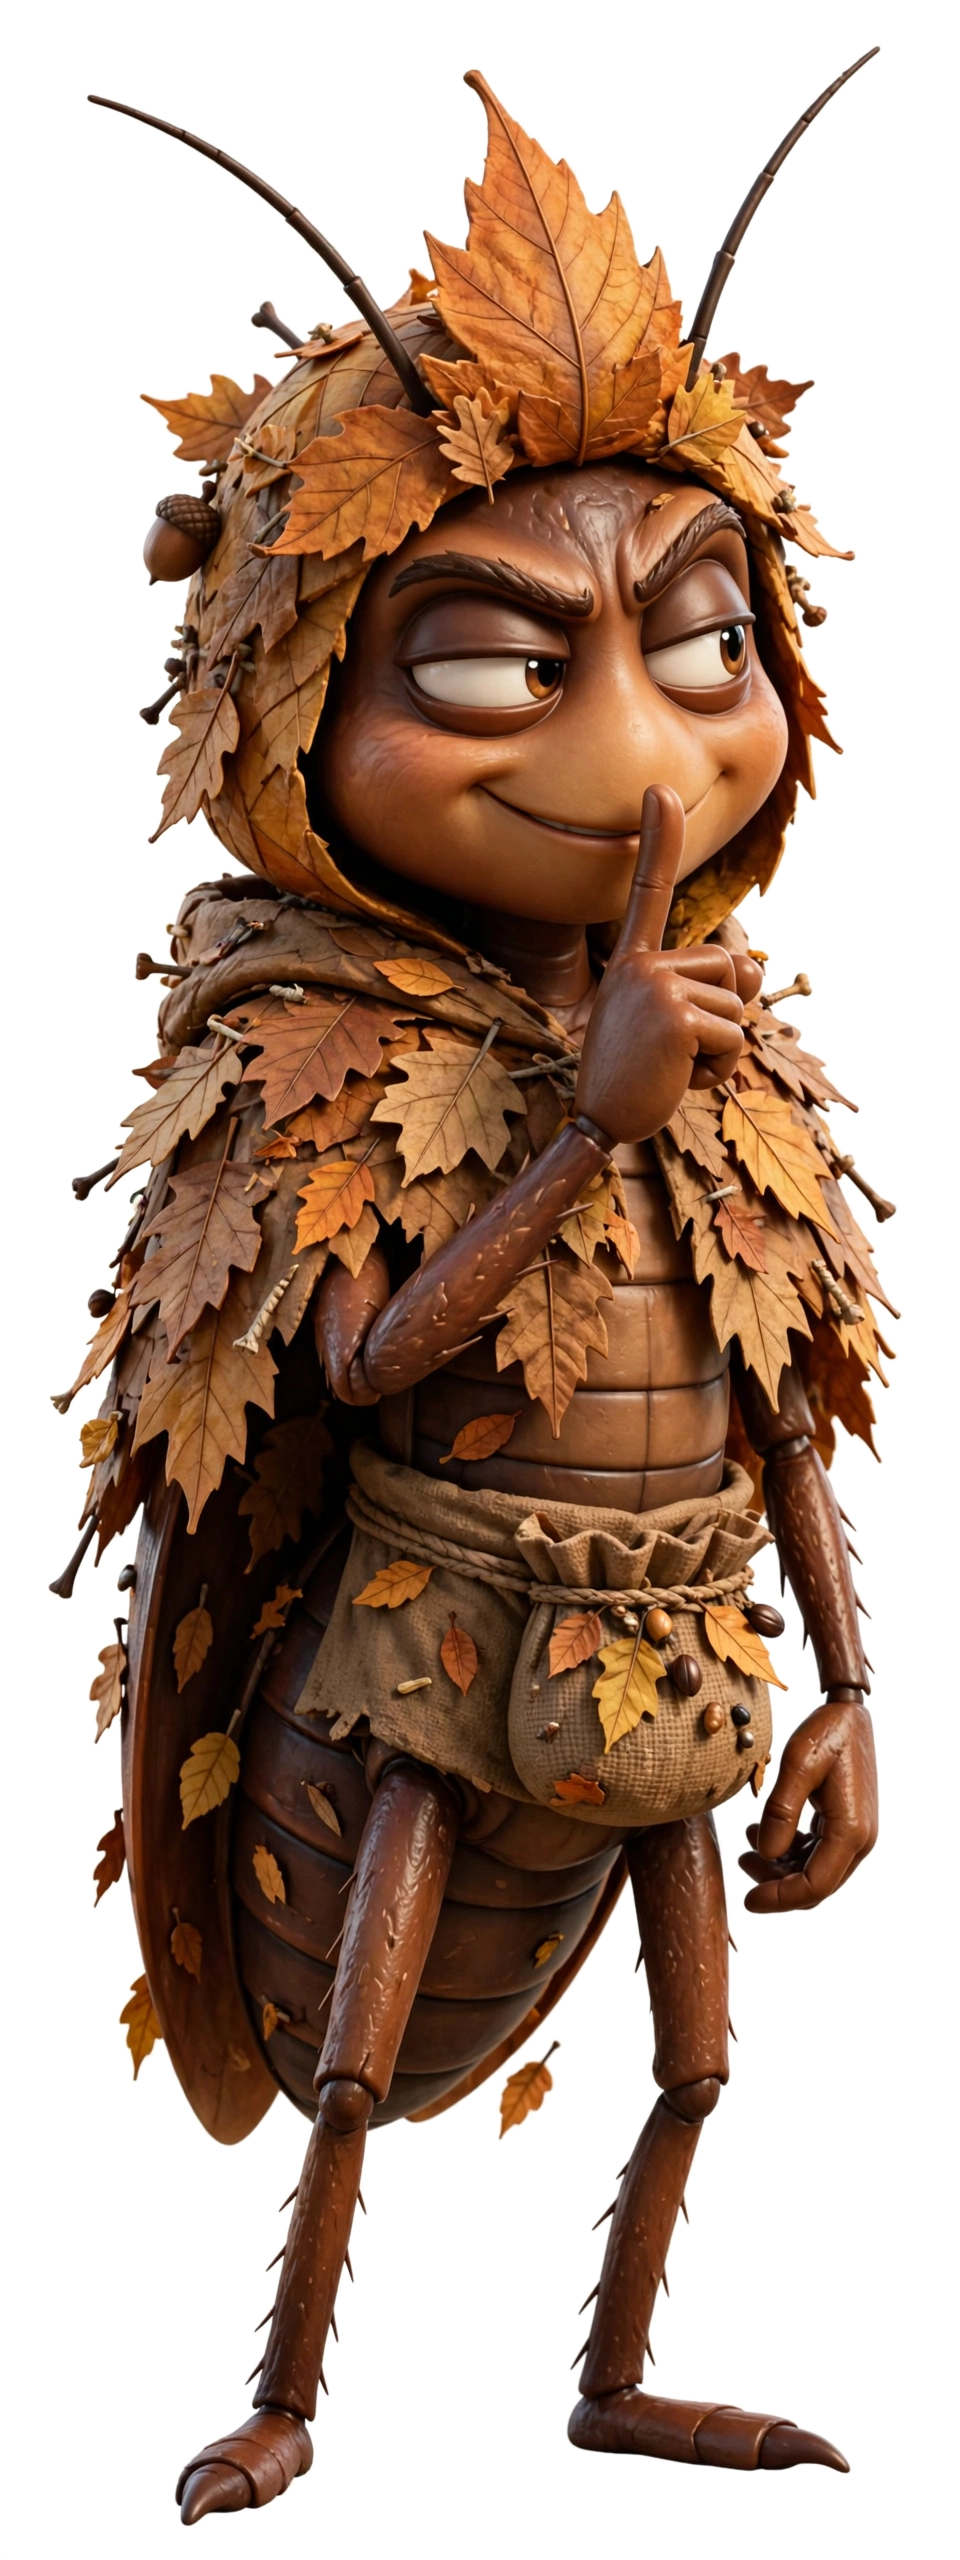
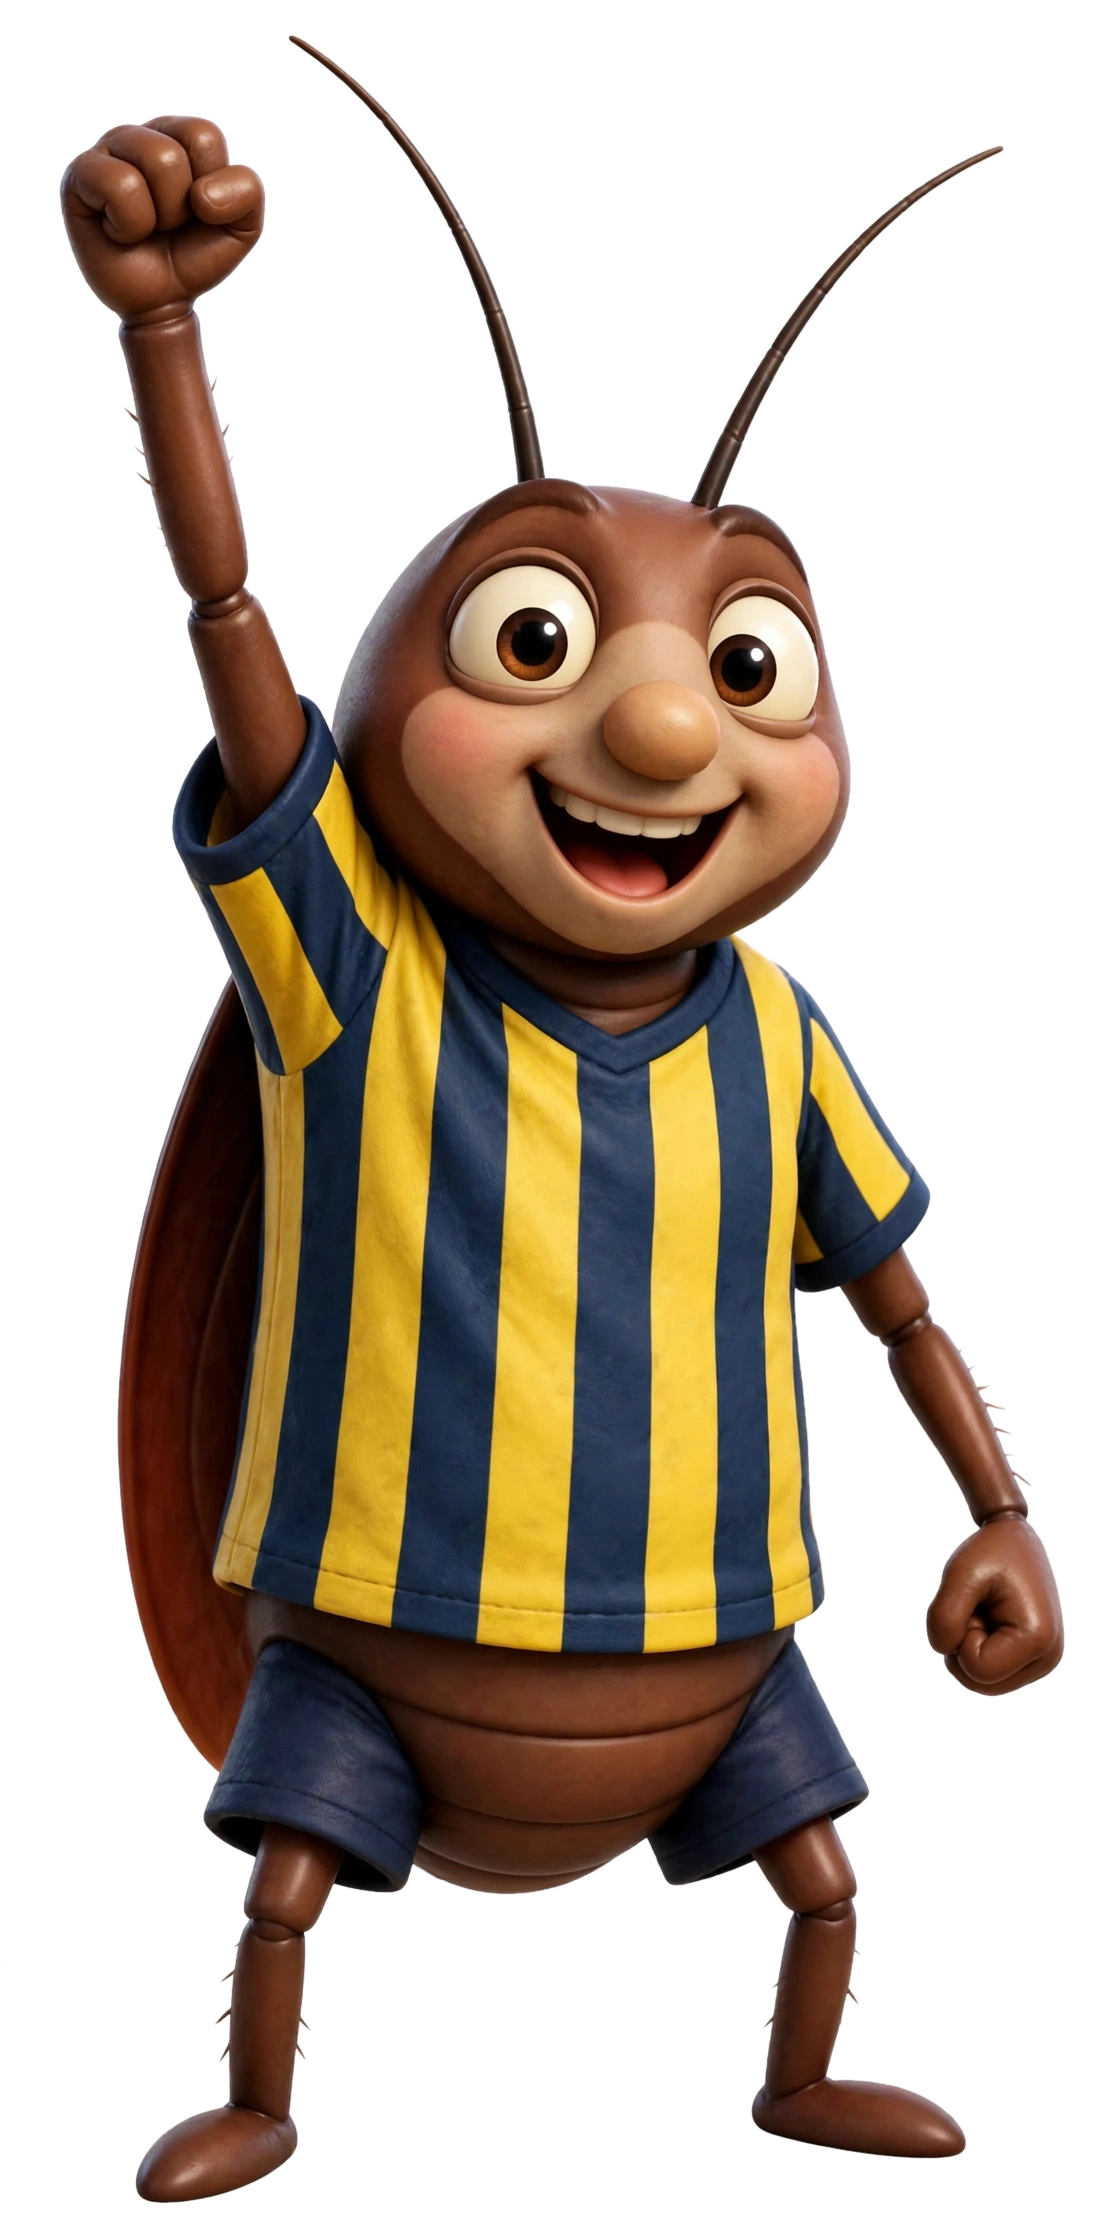
Hisir gorseli v2: videodaki sari-lacivert formali taraftar (armasiz, seffaf zemin)

diff --git a/lib/models/hisir_character.dart b/lib/models/hisir_character.dart
@@ -9,8 +9,9 @@
 /// diye geçti, "hışır" olduğu kulakla teyit edilmedi. Teyit gelince ya da
 /// gerçek "hışır" klibi kesilince ses dosyası/sabit değişir, bu dosya değişmez.
 ///
-/// Görsel: Hışır'a özel üretildi (`assets/design/bugs_hd/hisir_hd.png`,
-/// yaprak başlıklı/pelerinli, fısıltı pozunda, şeffaf zeminli).
+/// Görsel: Hışır'a özel üretildi (`assets/design/bugs_hd/hisir_hd.png`) —
+/// videodaki sarı-lacivert çubuklu formalı taraftar böcek (armasız düz
+/// forma, yumruk havada sevinç pozu), şeffaf zeminli.
 class HisirCharacter {
   HisirCharacter._();
 
